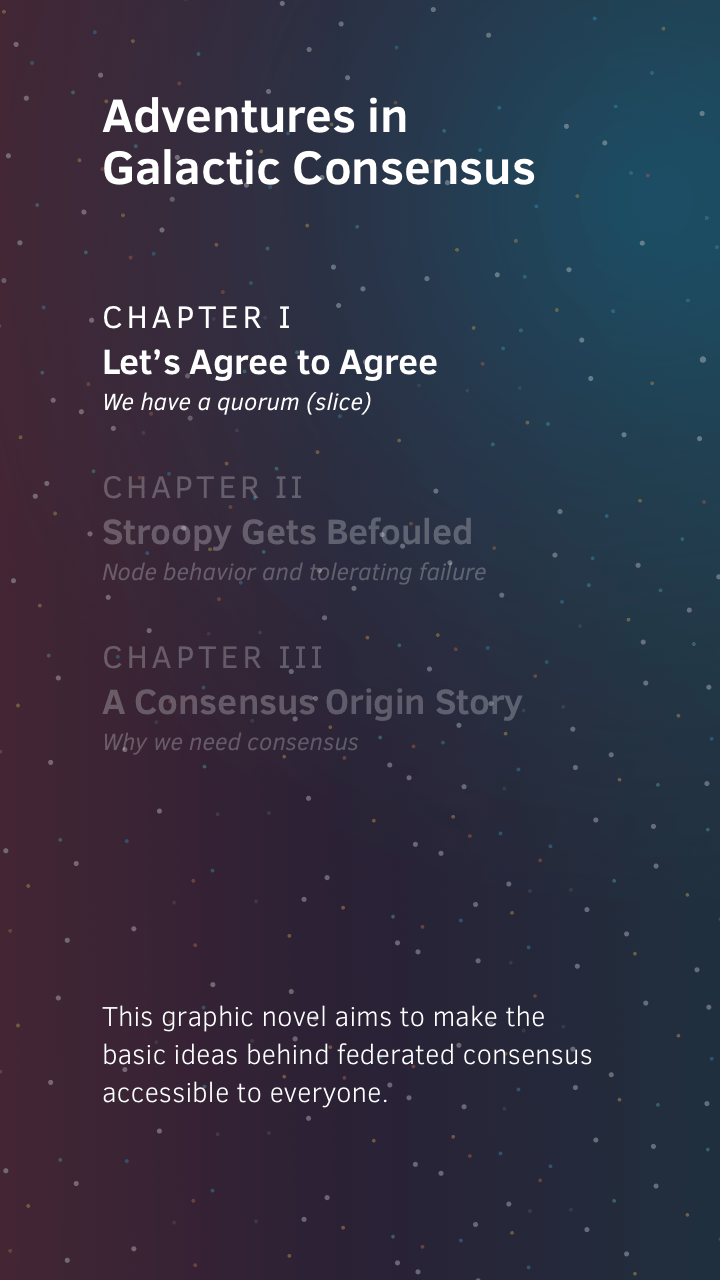
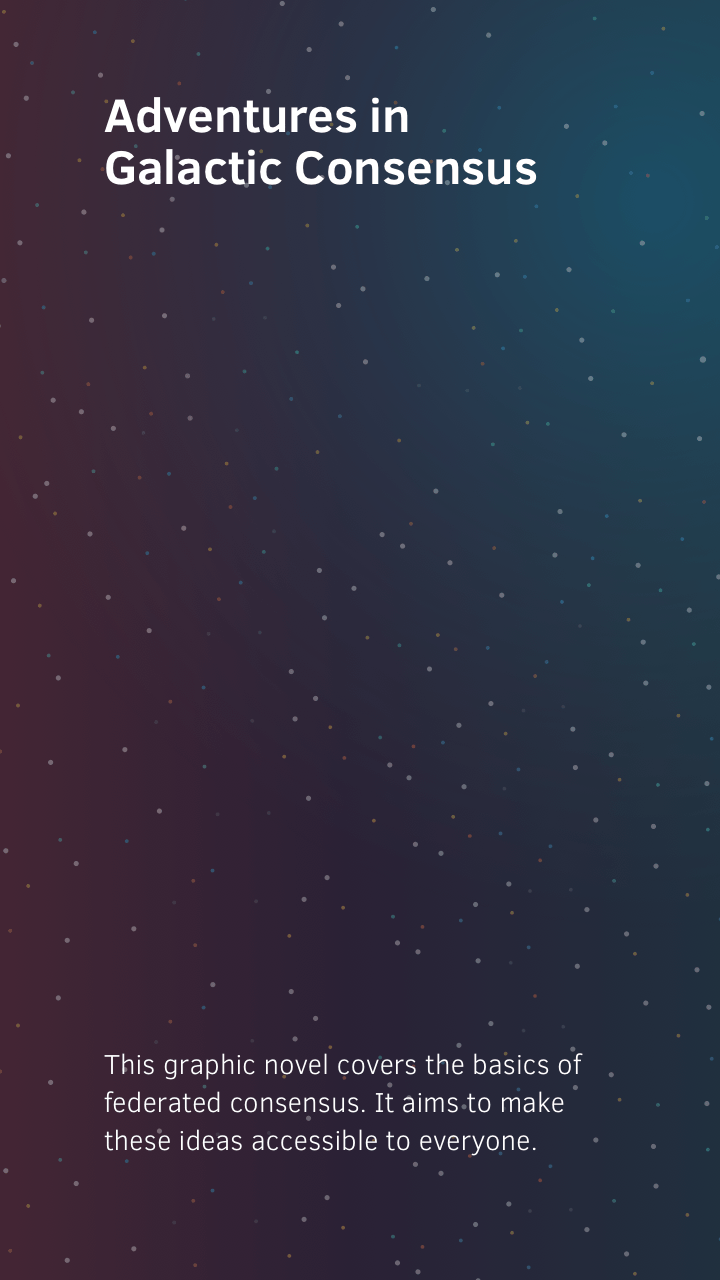
update first and last slide in graphic novel

diff --git a/content/adventures-in-galactic-consensus-chapter-1/slides.html b/content/adventures-in-galactic-consensus-chapter-1/slides.html
@@ -54,7 +54,7 @@
       </a>
       <br />
       <br />
-      <a href="https://www.stellar.org/galaxy/#get-involved" class="fontSize-small c-inherit lineHeight-loose">Or get involved with Stellar</a></p>
+      <a href="https://www.stellar.org/developers/" class="fontSize-small c-inherit lineHeight-loose">Or get involved with Stellar</a></p>
     </p>
   </div>
   <a click-trigger="share:enter" class="speechBox speechBox-triangle-bottom aigc-bottomSpeechBox c-dark">
